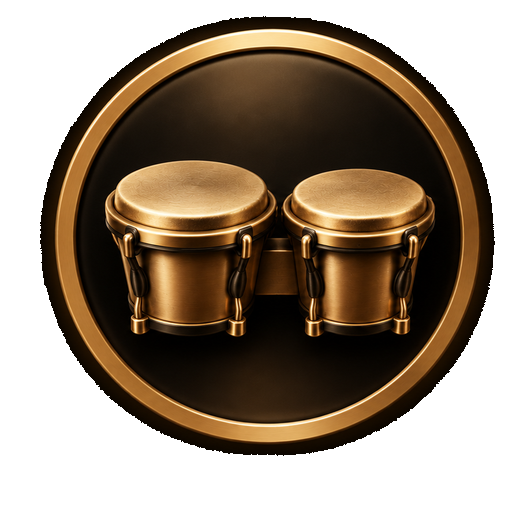
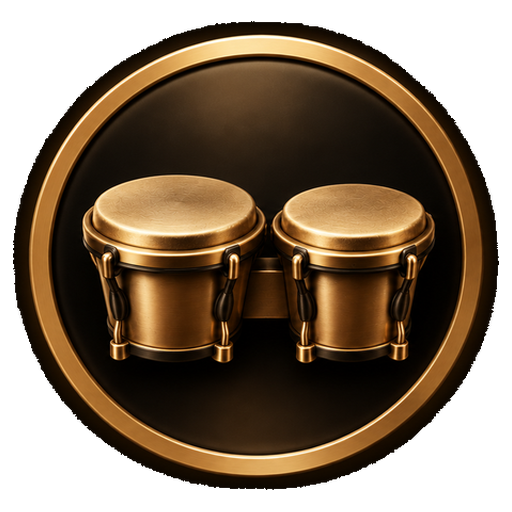
Add files via upload
Icons size

diff --git a/index.html b/index.html
@@ -10,7 +10,7 @@
 <link rel="manifest" href="manifest.webmanifest">
 <link rel="apple-touch-icon" href="icon-192.png">
 <title>Pocket Handpan</title>
-<!-- v60: gold handpan matched to gold logo/layer icons; based on v48 -->
+<!-- v63: gold handpan matched to gold logo/layer icons; based on v48 -->
 <style>
 :root{color-scheme:dark}
 *{box-sizing:border-box}
@@ -69,7 +69,7 @@ body{min-height:100dvh;padding:max(env(safe-area-inset-top),12px) 14px max(env(s
 @media(max-width:520px){.settings{width:100%}.settingsPanel{width:100%}.control{grid-template-columns:68px minmax(90px,1fr) 40px}}
 
 
-/* v60 unified bright-gold visual treatment */
+/* v63 unified bright-gold visual treatment */
 .pan{
   background:
     radial-gradient(circle at 31% 18%,rgba(255,248,196,.92) 0 4%,rgba(255,220,99,.48) 10%,transparent 29%),
@@ -131,7 +131,7 @@ body{min-height:100dvh;padding:max(env(safe-area-inset-top),12px) 14px max(env(s
 .label{color:#fff0c1 !important}
 
 
-/* v60 — reference bronze-gold palette sampled from supplied handpan photo */
+/* v63 — reference bronze-gold palette sampled from supplied handpan photo */
 .pan{
   background:
     radial-gradient(circle at 31% 17%,rgba(255,224,153,.90) 0 5%,rgba(230,177,90,.44) 14%,transparent 31%),
@@ -193,7 +193,7 @@ body{min-height:100dvh;padding:max(env(safe-area-inset-top),12px) 14px max(env(s
 .label{color:#f2d6a5 !important}
 
 
-/* v60 — polished/high-contrast version of the v60 bronze handpan */
+/* v63 — polished/high-contrast version of the v63 bronze handpan */
 .pan{
   background:
     radial-gradient(ellipse at 31% 15%,rgba(255,241,190,.98) 0 3%,rgba(255,211,123,.72) 8%,rgba(214,151,70,.28) 19%,transparent 34%),
@@ -252,7 +252,7 @@ body{min-height:100dvh;padding:max(env(safe-area-inset-top),12px) 14px max(env(s
 }
 
 
-/* v60 — restore concave appearance to outer-note dimples (notes 1–9) */
+/* v63 — restore concave appearance to outer-note dimples (notes 1–9) */
 .note:not(.ding)::before{
   background:
     radial-gradient(ellipse at 31% 27%,rgba(38,20,6,.72) 0 5%,rgba(67,37,11,.42) 18%,transparent 43%),
@@ -269,7 +269,7 @@ body{min-height:100dvh;padding:max(env(safe-area-inset-top),12px) 14px max(env(s
 .layerIcon[data-layer] img{opacity:.50;filter:saturate(.72) brightness(.70);transition:.18s}
 .layerIcon[data-layer].active img{opacity:1;filter:brightness(1.14) saturate(1.05) drop-shadow(0 0 10px rgba(226,169,61,.48))}
 
-/* v60 — stronger concave cue for outer-note dimples without dulling the polished shell */
+/* v63 — stronger concave cue for outer-note dimples without dulling the polished shell */
 .note:not(.ding)::before{
   background:
     radial-gradient(ellipse at 29% 25%,rgba(34,17,5,.78) 0 7%,rgba(69,38,11,.46) 18%,transparent 43%),
@@ -282,9 +282,10 @@ body{min-height:100dvh;padding:max(env(safe-area-inset-top),12px) 14px max(env(s
 }
 
 
-/* v60 — percussion icons 20% larger */
+/* v63 — percussion icons 20% larger */
 .layerIcon{width:min(13.2vw,69.6px)!important;height:min(13.2vw,69.6px)!important;max-width:69.6px!important;max-height:69.6px!important;min-width:45.6px!important;min-height:45.6px!important}
 @media(max-width:520px){.layerIcon{width:13.8vw!important;height:13.8vw!important;min-width:43.2px!important;min-height:43.2px!important}}
+
 
 </style>
 </head>
@@ -304,7 +305,7 @@ body{min-height:100dvh;padding:max(env(safe-area-inset-top),12px) 14px max(env(s
 </div>
 
 
-<div id="stage" class="stage"><div id="pan" class="pan"></div><button id="shell" class="shellHit" type="button" aria-label="Handpan shell percussion"></button><button class="layerIcon topLeft" type="button" data-layer="shaker" aria-label="Shaker loop" aria-pressed="false"><img src="layer-shaker-icon.png" alt=""></button><button class="layerIcon topRight" type="button" data-layer="tambourine" aria-label="Tambourine loop" aria-pressed="false"><img src="layer-synth-icon.png?v60" alt=""></button><button class="layerIcon bottomLeft" type="button" data-layer="cajon" aria-label="Cajón loop" aria-pressed="false"><img src="layer-cajon-icon.png" alt=""></button><button class="layerIcon bottomRight" type="button" data-layer="bongo" aria-label="Bongo loop" aria-pressed="false"><img src="layer-vocals-icon.png?v60" alt=""></button><button class="note ding" type="button" data-note="D3" data-freq="146.832" style="left:50%;top:50%"><span class="zoneGuide"></span><span class="label">D3<small>Ding</small></span></button></div>
+<div id="stage" class="stage"><div id="pan" class="pan"></div><button id="shell" class="shellHit" type="button" aria-label="Handpan shell percussion"></button><button class="layerIcon topLeft" type="button" data-layer="shaker" aria-label="Shaker loop" aria-pressed="false"><img src="layer-shaker-icon.png" alt=""></button><button class="layerIcon topRight" type="button" data-layer="tambourine" aria-label="Tambourine loop" aria-pressed="false"><img src="layer-synth-icon.png?v63" alt=""></button><button class="layerIcon bottomLeft" type="button" data-layer="cajon" aria-label="Cajón loop" aria-pressed="false"><img src="layer-cajon-icon.png" alt=""></button><button class="layerIcon bottomRight" type="button" data-layer="bongo" aria-label="Bongo loop" aria-pressed="false"><img src="layer-vocals-icon.png?v63" alt=""></button><button class="note ding" type="button" data-note="D3" data-freq="146.832" style="left:50%;top:50%"><span class="zoneGuide"></span><span class="label">D3<small>Ding</small></span></button></div>
 <div id="ambienceButtons" class="ambienceButtons" role="group" aria-label="Choose ambience">
 <button class="ambienceBtn" type="button" data-ambience="forest" aria-pressed="false"><img src="ambience-forest-icon.png" alt=""><span>Forest</span></button>
 <button class="ambienceBtn" type="button" data-ambience="beach" aria-pressed="false"><img src="ambience-beach-icon.png" alt=""><span>Beach</span></button>
@@ -431,10 +432,10 @@ function endSlide(e){if(!slidePointers.has(e.pointerId))return;slidePointers.del
 stage.addEventListener('pointerup',endSlide);stage.addEventListener('pointercancel',endSlide);stage.addEventListener('lostpointercapture',e=>slidePointers.delete(e.pointerId));
 document.addEventListener('pointerdown',()=>{loadRealSamples()},{once:true});
 
-// v60 — sample-accurate synchronised musical layers.
+// v63 — sample-accurate synchronised musical layers.
 // All three loops begin together and continue running silently when deselected,
 // so any layer can be brought in/out without losing phase.
-const syncedLayerFiles={shaker:'loop-shaker-v60.wav',cajon:'loop-cajon.wav',tambourine:'loop-tambourine.wav',bongo:'loop-bongo.wav'};
+const syncedLayerFiles={shaker:'loop-shaker-v63.wav',cajon:'loop-cajon.wav',tambourine:'loop-tambourine.wav',bongo:'loop-bongo.wav'};
 const syncedLayerBuffers=new Map();
 const syncedLayerVoices=new Map();
 let syncedLayersStarted=false;
@@ -495,7 +496,7 @@ async function toggleSyncedLayer(name,button){
   const current=Math.max(0.0001,voice.gain.gain.value);
   voice.gain.gain.cancelScheduledValues(now);
   voice.gain.gain.setValueAtTime(current,now);
-  voice.gain.gain.exponentialRampToValueAtTime(voice.on?0.28:0.0001,now+0.07);
+  voice.gain.gain.exponentialRampToValueAtTime(voice.on?(name==='shaker'?0.14:0.28):0.0001,now+0.07);
 
   button.classList.toggle('active',voice.on);
   button.setAttribute('aria-pressed',voice.on?'true':'false');
